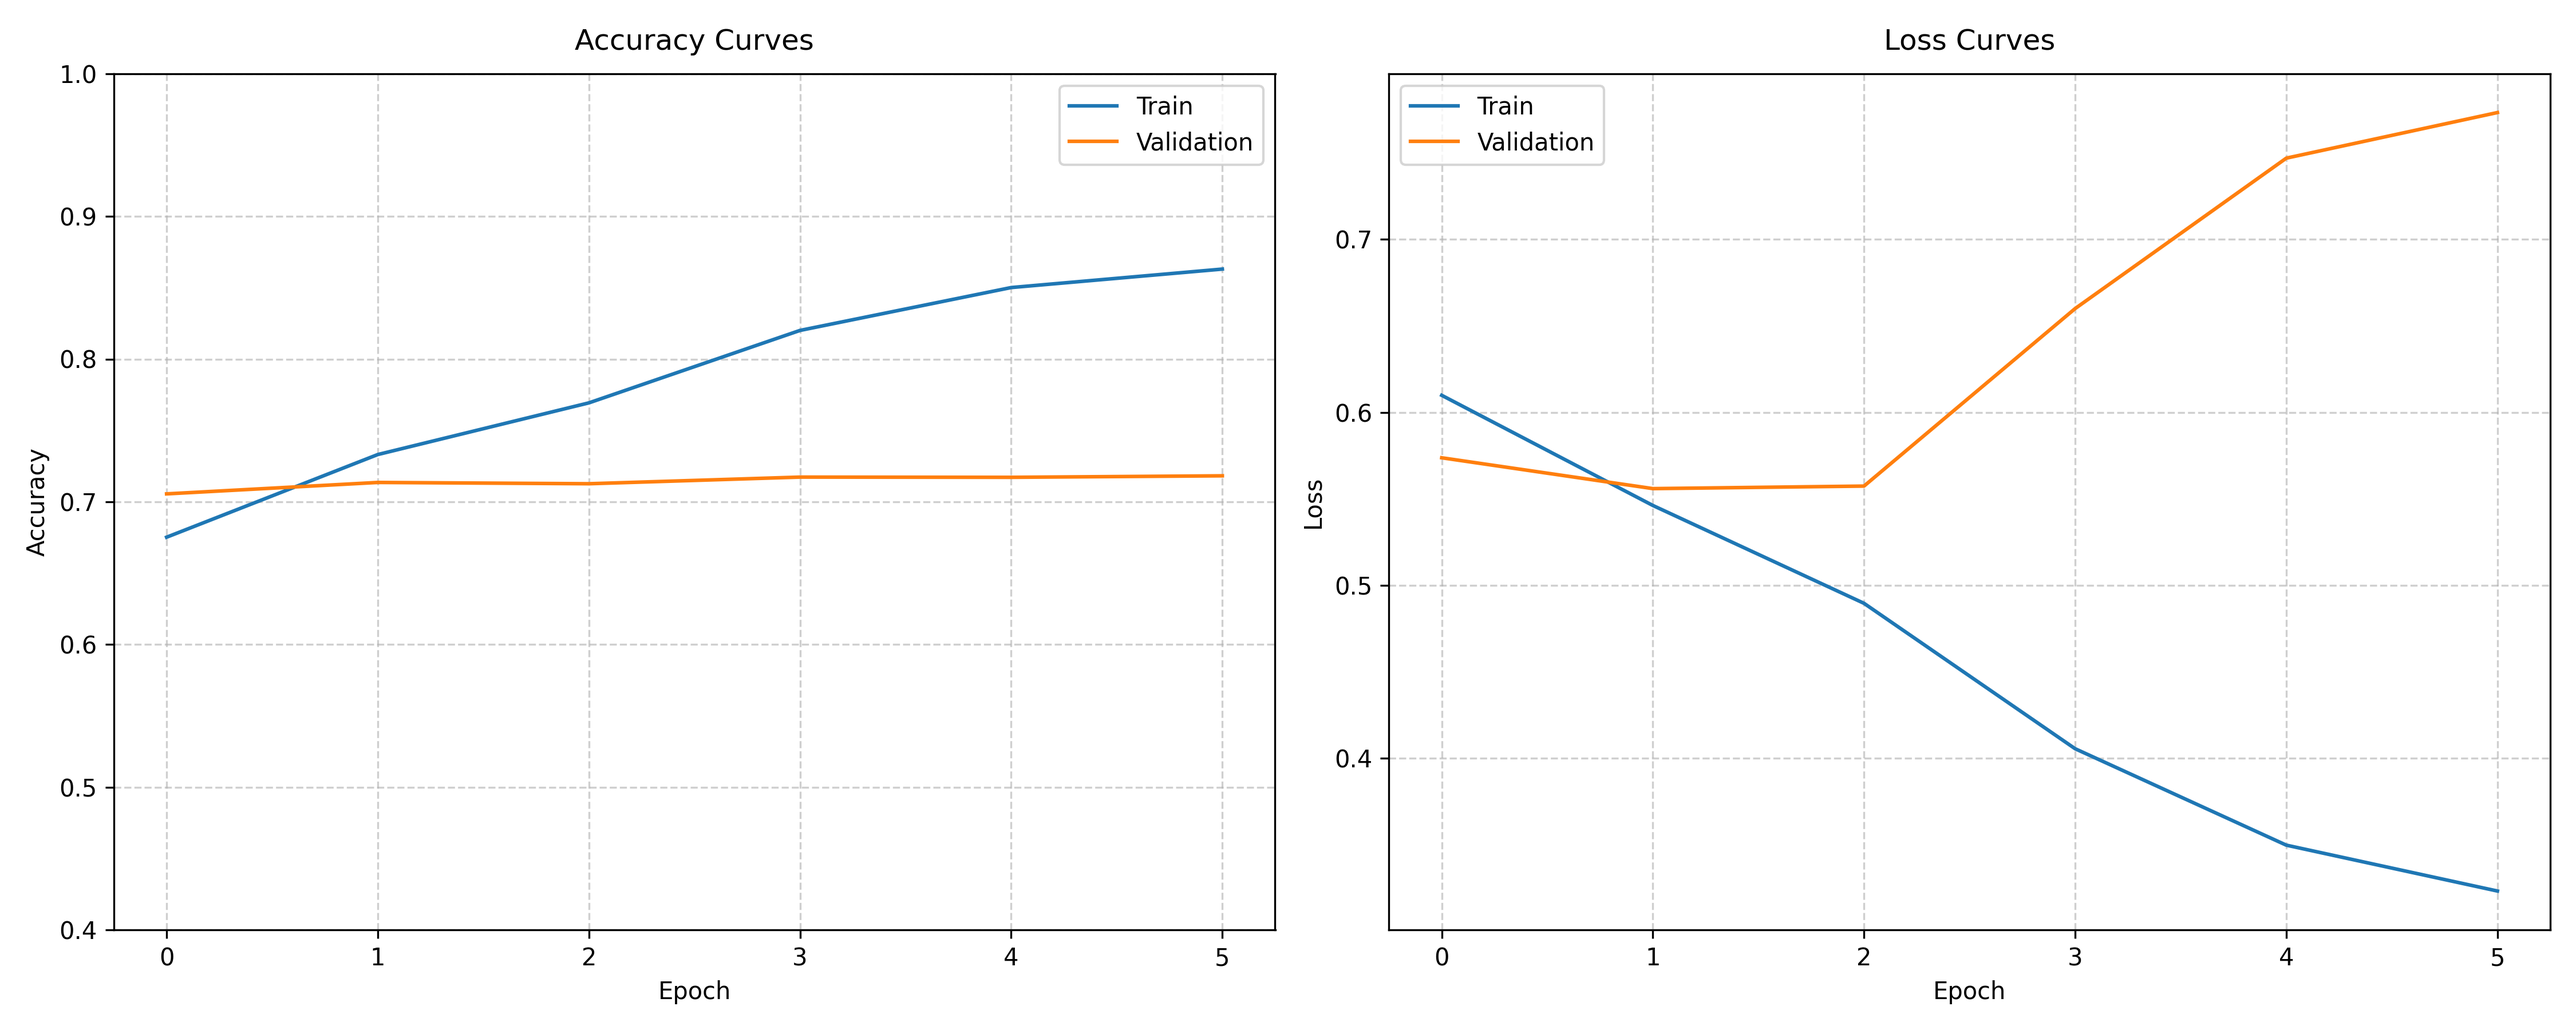
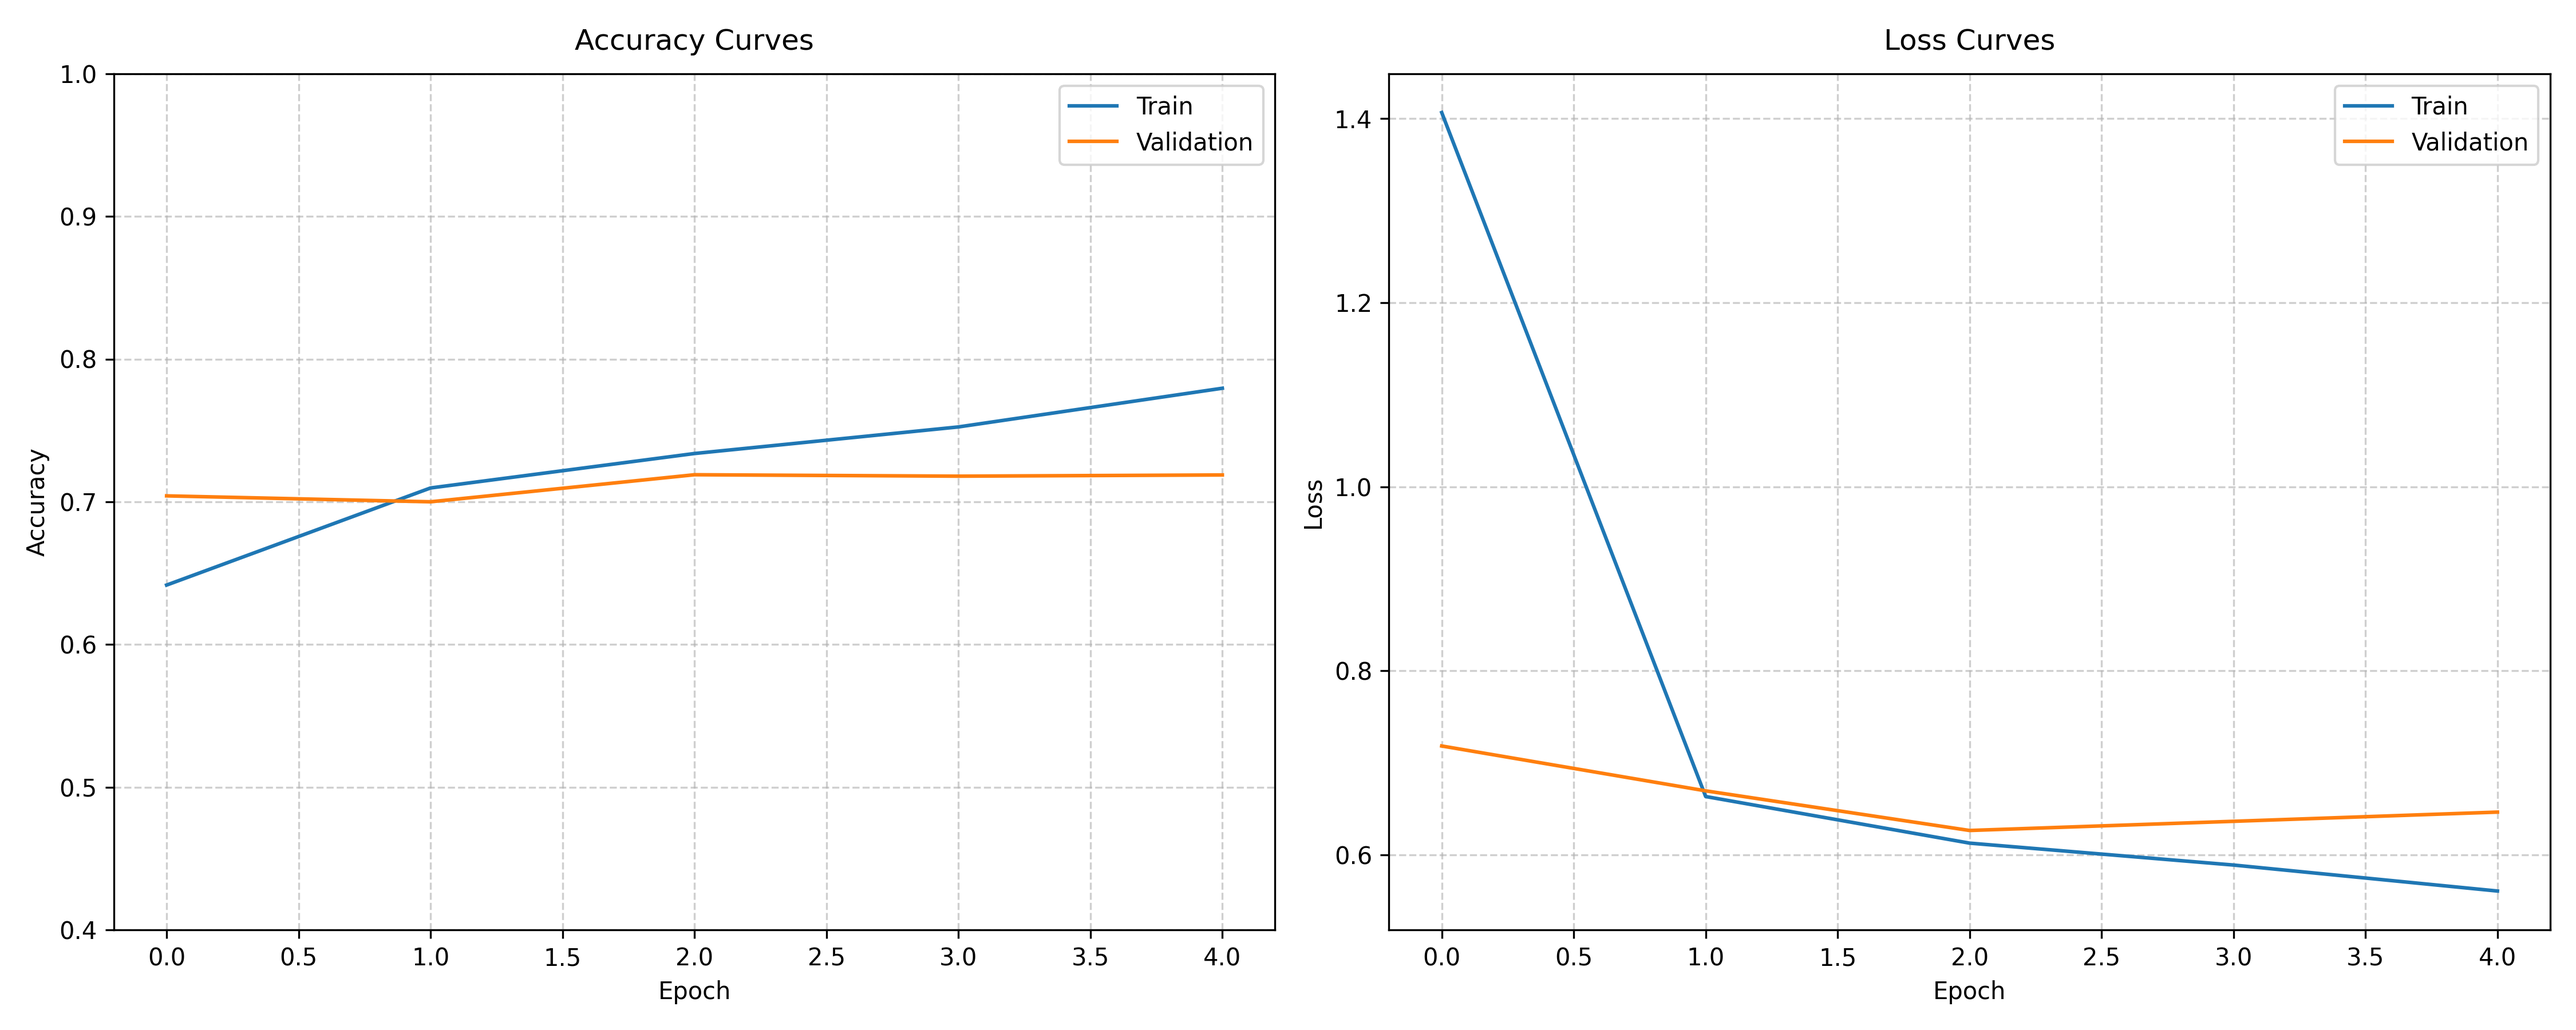
Updated Bert Overfitting

diff --git a/Bert/Bert.py b/Bert/Bert.py
@@ -3,31 +3,30 @@ import numpy as np
 import pandas as pd
 import tensorflow as tf
 import re
-from transformers import DistilBertTokenizer, TFDistilBertForSequenceClassification
+from transformers import DistilBertTokenizer, TFDistilBertForSequenceClassification, DistilBertConfig
 from tensorflow.keras.callbacks import EarlyStopping, ReduceLROnPlateau
 from sklearn.model_selection import train_test_split
 import matplotlib.pyplot as plt
 from sklearn.metrics import classification_report, confusion_matrix
 import seaborn as sns
+from sklearn.utils.class_weight import compute_class_weight
 
 # Configuration
-MAX_LEN = 50  # Matches Bi-LSTM setup
-BATCH_SIZE = 16 # Reduced for BERT memory requirements
-EPOCHS = 6      # Fewer epochs needed for BERT
+MAX_LEN = 50
+BATCH_SIZE = 16
+EPOCHS = 6
 OUTPUT_DIR = "Sarcasm_outputs_bert"
 MODEL_NAME = "distilbert-base-uncased"
 
 # Create output directory
 os.makedirs(OUTPUT_DIR, exist_ok=True)
 
-# Text cleaning (same as Bi-LSTM)
 def clean_text(text):
     text = str(text).lower()
     text = re.sub(r'[^a-zA-z\s]', '', text)
     text = re.sub(r'\s+', ' ', text).strip()
     return text
 
-# Load data (same as Bi-LSTM)
 def load_data(file_path, sample_size=100000):
     df = pd.read_csv(file_path, usecols=['label', 'comment'])
     df = df.dropna(subset=['comment'])
@@ -45,16 +44,22 @@ train_texts, test_texts, train_labels, test_labels = train_test_split(
     stratify=df['label']
 )
 
+# Class weight balancing
+classes = np.unique(train_labels)
+class_weights = compute_class_weight('balanced', classes=classes, y=train_labels)
+class_weights = np.clip(class_weights, 0.5, 2)  # Limit extreme weights
+class_weights_dict = dict(zip(classes, class_weights))
+sample_weights = np.array([class_weights_dict[label] for label in train_labels])
+
 # Initialize BERT tokenizer
 tokenizer = DistilBertTokenizer.from_pretrained(MODEL_NAME)
 
-# Tokenization function
 def encode_texts(texts):
     return tokenizer(
         texts.tolist(),
         max_length=MAX_LEN,
         truncation=True,
-        padding='max_length',
+        padding=True,  # Dynamic padding
         return_tensors='tf'
     )
 
@@ -62,13 +67,14 @@ def encode_texts(texts):
 train_encodings = encode_texts(train_texts)
 test_encodings = encode_texts(test_texts)
 
-# Create TensorFlow datasets
+# Create TensorFlow datasets with sample weights
 train_dataset = tf.data.Dataset.from_tensor_slices((
     {
         'input_ids': train_encodings['input_ids'],
         'attention_mask': train_encodings['attention_mask']
     },
-    np.array(train_labels)
+    np.array(train_labels),
+    sample_weights
 )).shuffle(1000).batch(BATCH_SIZE).prefetch(tf.data.AUTOTUNE)
 
 test_dataset = tf.data.Dataset.from_tensor_slices((
@@ -79,38 +85,45 @@ test_dataset = tf.data.Dataset.from_tensor_slices((
     np.array(test_labels)
 )).batch(BATCH_SIZE).prefetch(tf.data.AUTOTUNE)
 
-# Enhanced DistilBERT model
+# Enhanced DistilBERT model with regularization
 def build_bert_model():
-    model = TFDistilBertForSequenceClassification.from_pretrained(
+    config = DistilBertConfig.from_pretrained(
         MODEL_NAME,
         num_labels=1,
-        dropout=0.3,
-        attention_dropout=0.2
+        dropout=0.4,  # Increased dropout
+        attention_dropout=0.3,  # Increased attention dropout
+        seq_classif_dropout=0.5
     )
     
-    # Custom classifier with regularization
+    model = TFDistilBertForSequenceClassification.from_pretrained(MODEL_NAME, config=config)
+    
+    # Enhanced classifier with regularization
+    l2_reg = tf.keras.regularizers.l2(0.02)
     model.classifier = tf.keras.Sequential([
-        tf.keras.layers.Dropout(0.4),
+        tf.keras.layers.Dropout(0.5),
         tf.keras.layers.Dense(64, activation='relu',
-                            kernel_regularizer=tf.keras.regularizers.l2(1e-4)),
-        tf.keras.layers.Dropout(0.3),
-        tf.keras.layers.Dense(1, activation='sigmoid')
+                            kernel_regularizer=l2_reg,
+                            activity_regularizer=l2_reg),
+        tf.keras.layers.Dropout(0.4),
+        tf.keras.layers.Dense(1, activation='sigmoid',
+                            kernel_regularizer=l2_reg)
     ])
     
-    optimizer = tf.keras.optimizers.Adam(learning_rate=3e-5)
-    loss = tf.keras.losses.BinaryCrossentropy()
-    
-    model.compile(
-        optimizer=optimizer,
-        loss=loss,
-        metrics=['accuracy']
+    # Optimized optimizer with weight decay
+    optimizer = tf.keras.optimizers.AdamW(
+        learning_rate=2e-5,
+        weight_decay=0.03,
+        clipnorm=1.0  # Gradient clipping
     )
+    
+    loss = tf.keras.losses.BinaryCrossentropy()
+    model.compile(optimizer=optimizer, loss=loss, metrics=['accuracy'])
     return model
 
-# Callbacks
+# Enhanced callbacks
 callbacks = [
-    EarlyStopping(monitor='val_accuracy', patience=2,
-                 min_delta=0.001, restore_best_weights=True),
+    EarlyStopping(monitor='val_loss', patience=2,
+                 min_delta=0.005, restore_best_weights=True),
     ReduceLROnPlateau(monitor='val_loss', factor=0.5,
                      patience=1, min_lr=1e-6)
 ]
@@ -125,7 +138,7 @@ history = model.fit(
     verbose=1
 )
 
-# Save training curves (same format as Bi-LSTM)
+# Visualization (same format)
 plt.figure(figsize=(15, 6))
 
 # Accuracy plot
